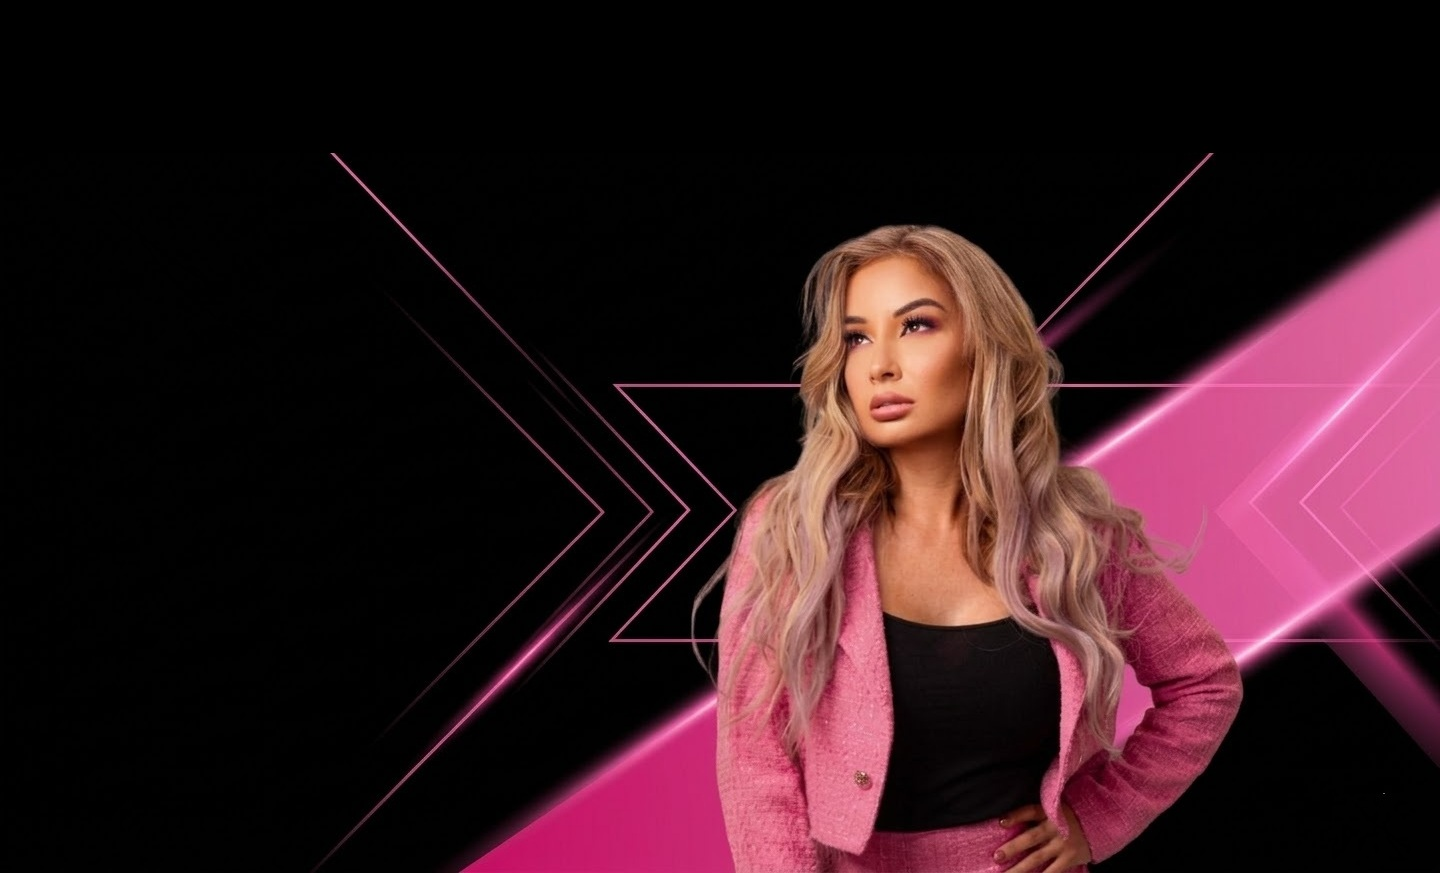
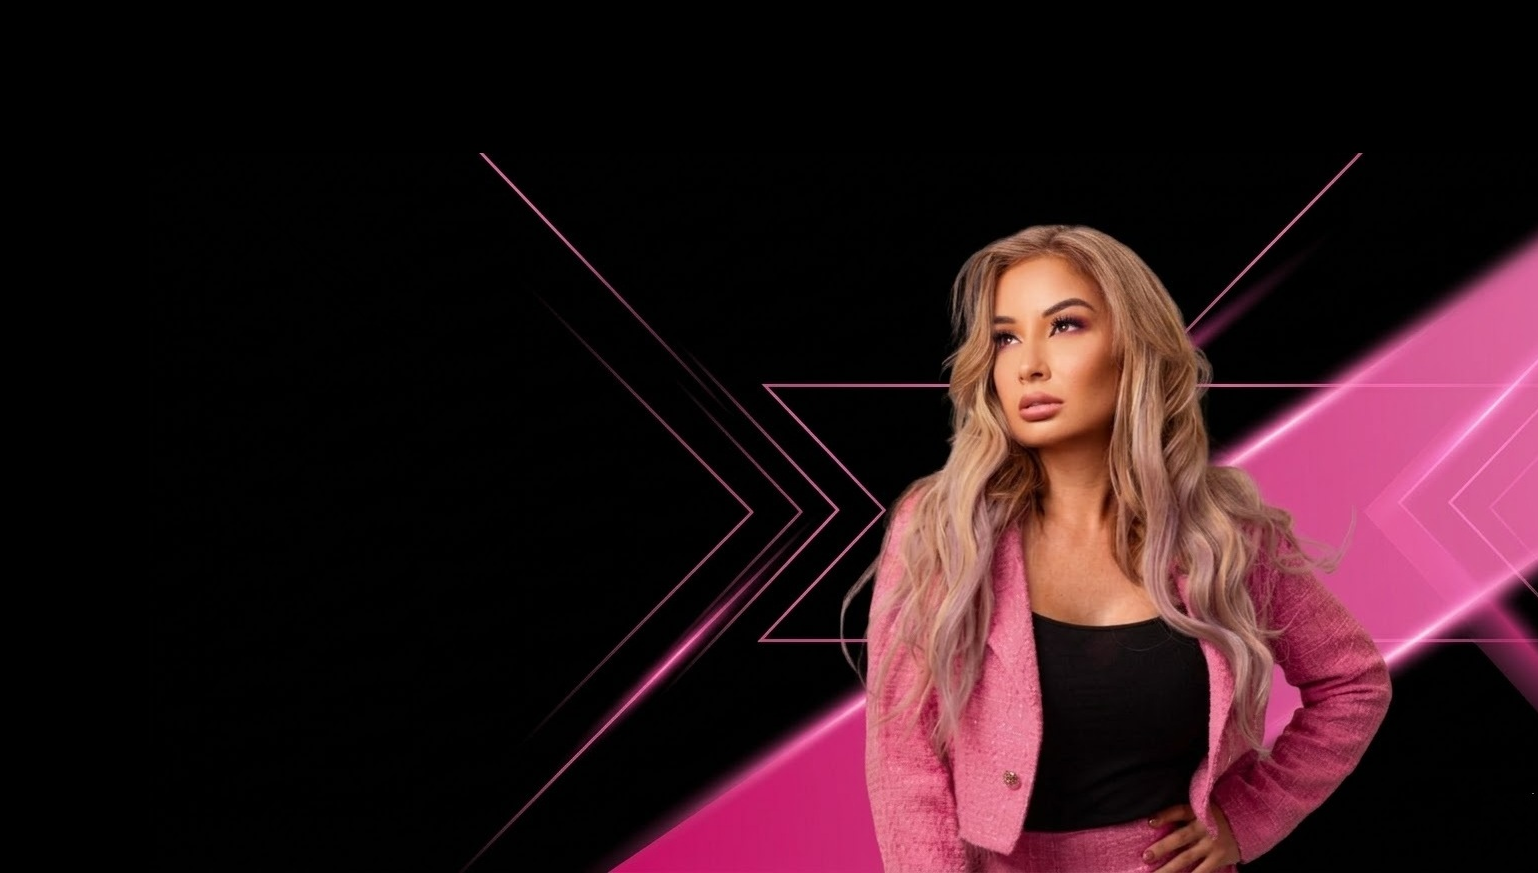
v1.2.2 - Add hero background for mobile

diff --git a/assets/css/style.css b/assets/css/style.css
@@ -132,7 +132,7 @@ img {
     min-height: 100vh;
     display: flex;
     align-items: center;
-    background-image: linear-gradient(rgba(0, 0, 0, 0.5), rgba(0, 0, 0, 0.5)), url('../img/hero-bg.png');
+    background-image: linear-gradient(rgba(0, 0, 0, 0.5), rgba(0, 0, 0, 0.5)), url('../img/hero-bg-mobile.png');
     background-size: cover;
     background-position: center;
     padding: 100px 0 60px;
@@ -1063,6 +1063,12 @@ section {
 
     .hero-benefits {
         max-width: 500px;
+    }
+
+    .hero {
+        background-image: linear-gradient(rgba(0, 0, 0, 0.5), rgba(0, 0, 0, 0.5)), url('../img/hero-bg.png');
+        background-size: cover;
+        background-position: center;
     }
 
     .pasos-grid {
